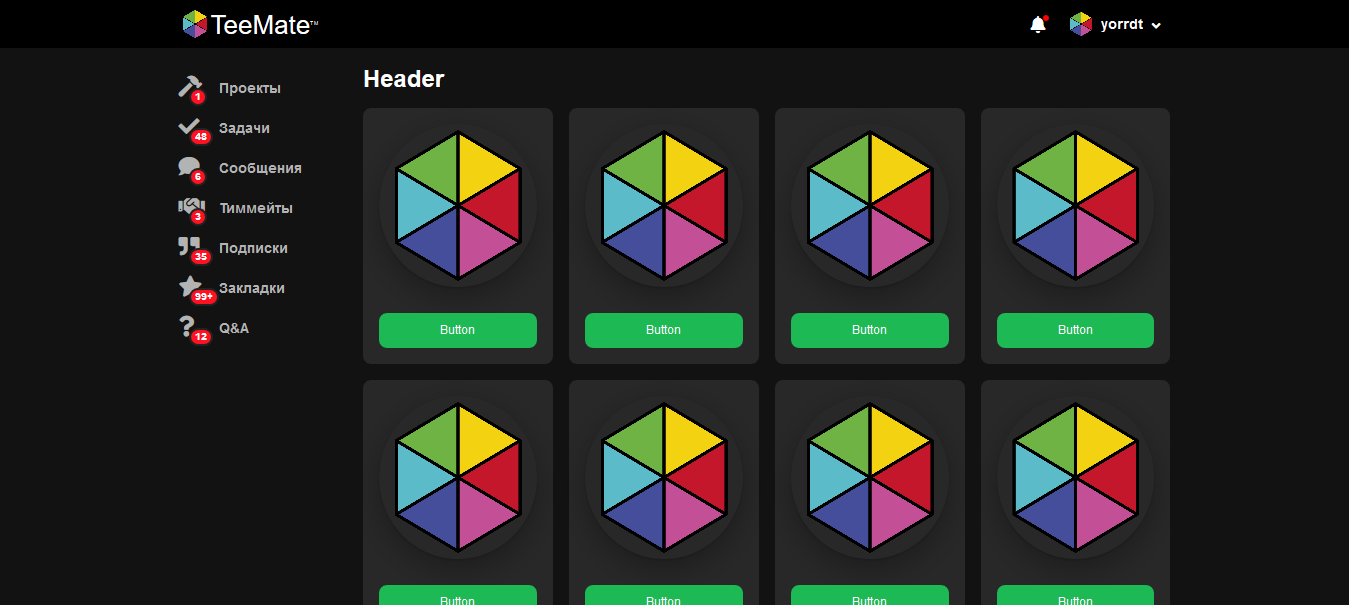
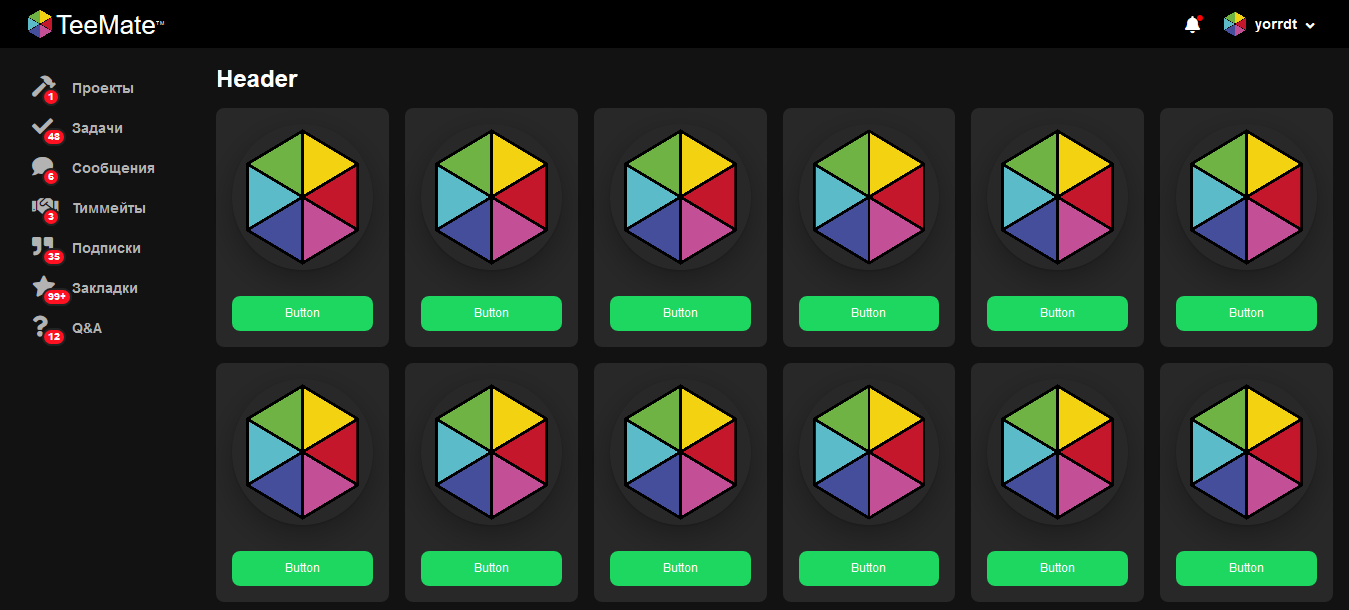
new illustration, new sizes of navbar(200 px)

diff --git a/teemate-vuejs-cli/src/components/style/profile.css b/teemate-vuejs-cli/src/components/style/profile.css
@@ -44,10 +44,6 @@ hr {
 
 /* ---------------------------------------------------- */
 
-@media screen and (max-width: 880px) {
-	
-}
-
 
 /* ---------------------------------------------------- */
 /* ----------------- MAIN_CONTAINER ------------------- */
@@ -271,7 +267,7 @@ hr {
 }
 
 .navbar-wrapper {
-	width: 220px;
+	width: 200px;
 	display: flex;
 	flex-shrink: 0;
 	flex-grow: 0;
@@ -291,7 +287,7 @@ hr {
 }
 
 .navbar-item {
-	padding: 0 8px;
+	padding: 0 16px;
 }
 
 .navbar-item:focus, .navbar-item:hover { 
@@ -375,7 +371,7 @@ hr {
 /* --------------------------------------------------- */
 
 .section-wrapper {
-	width: calc(100% - 220px);
+	width: calc(100% - 200px);
 }
 
 .content-spacing {
